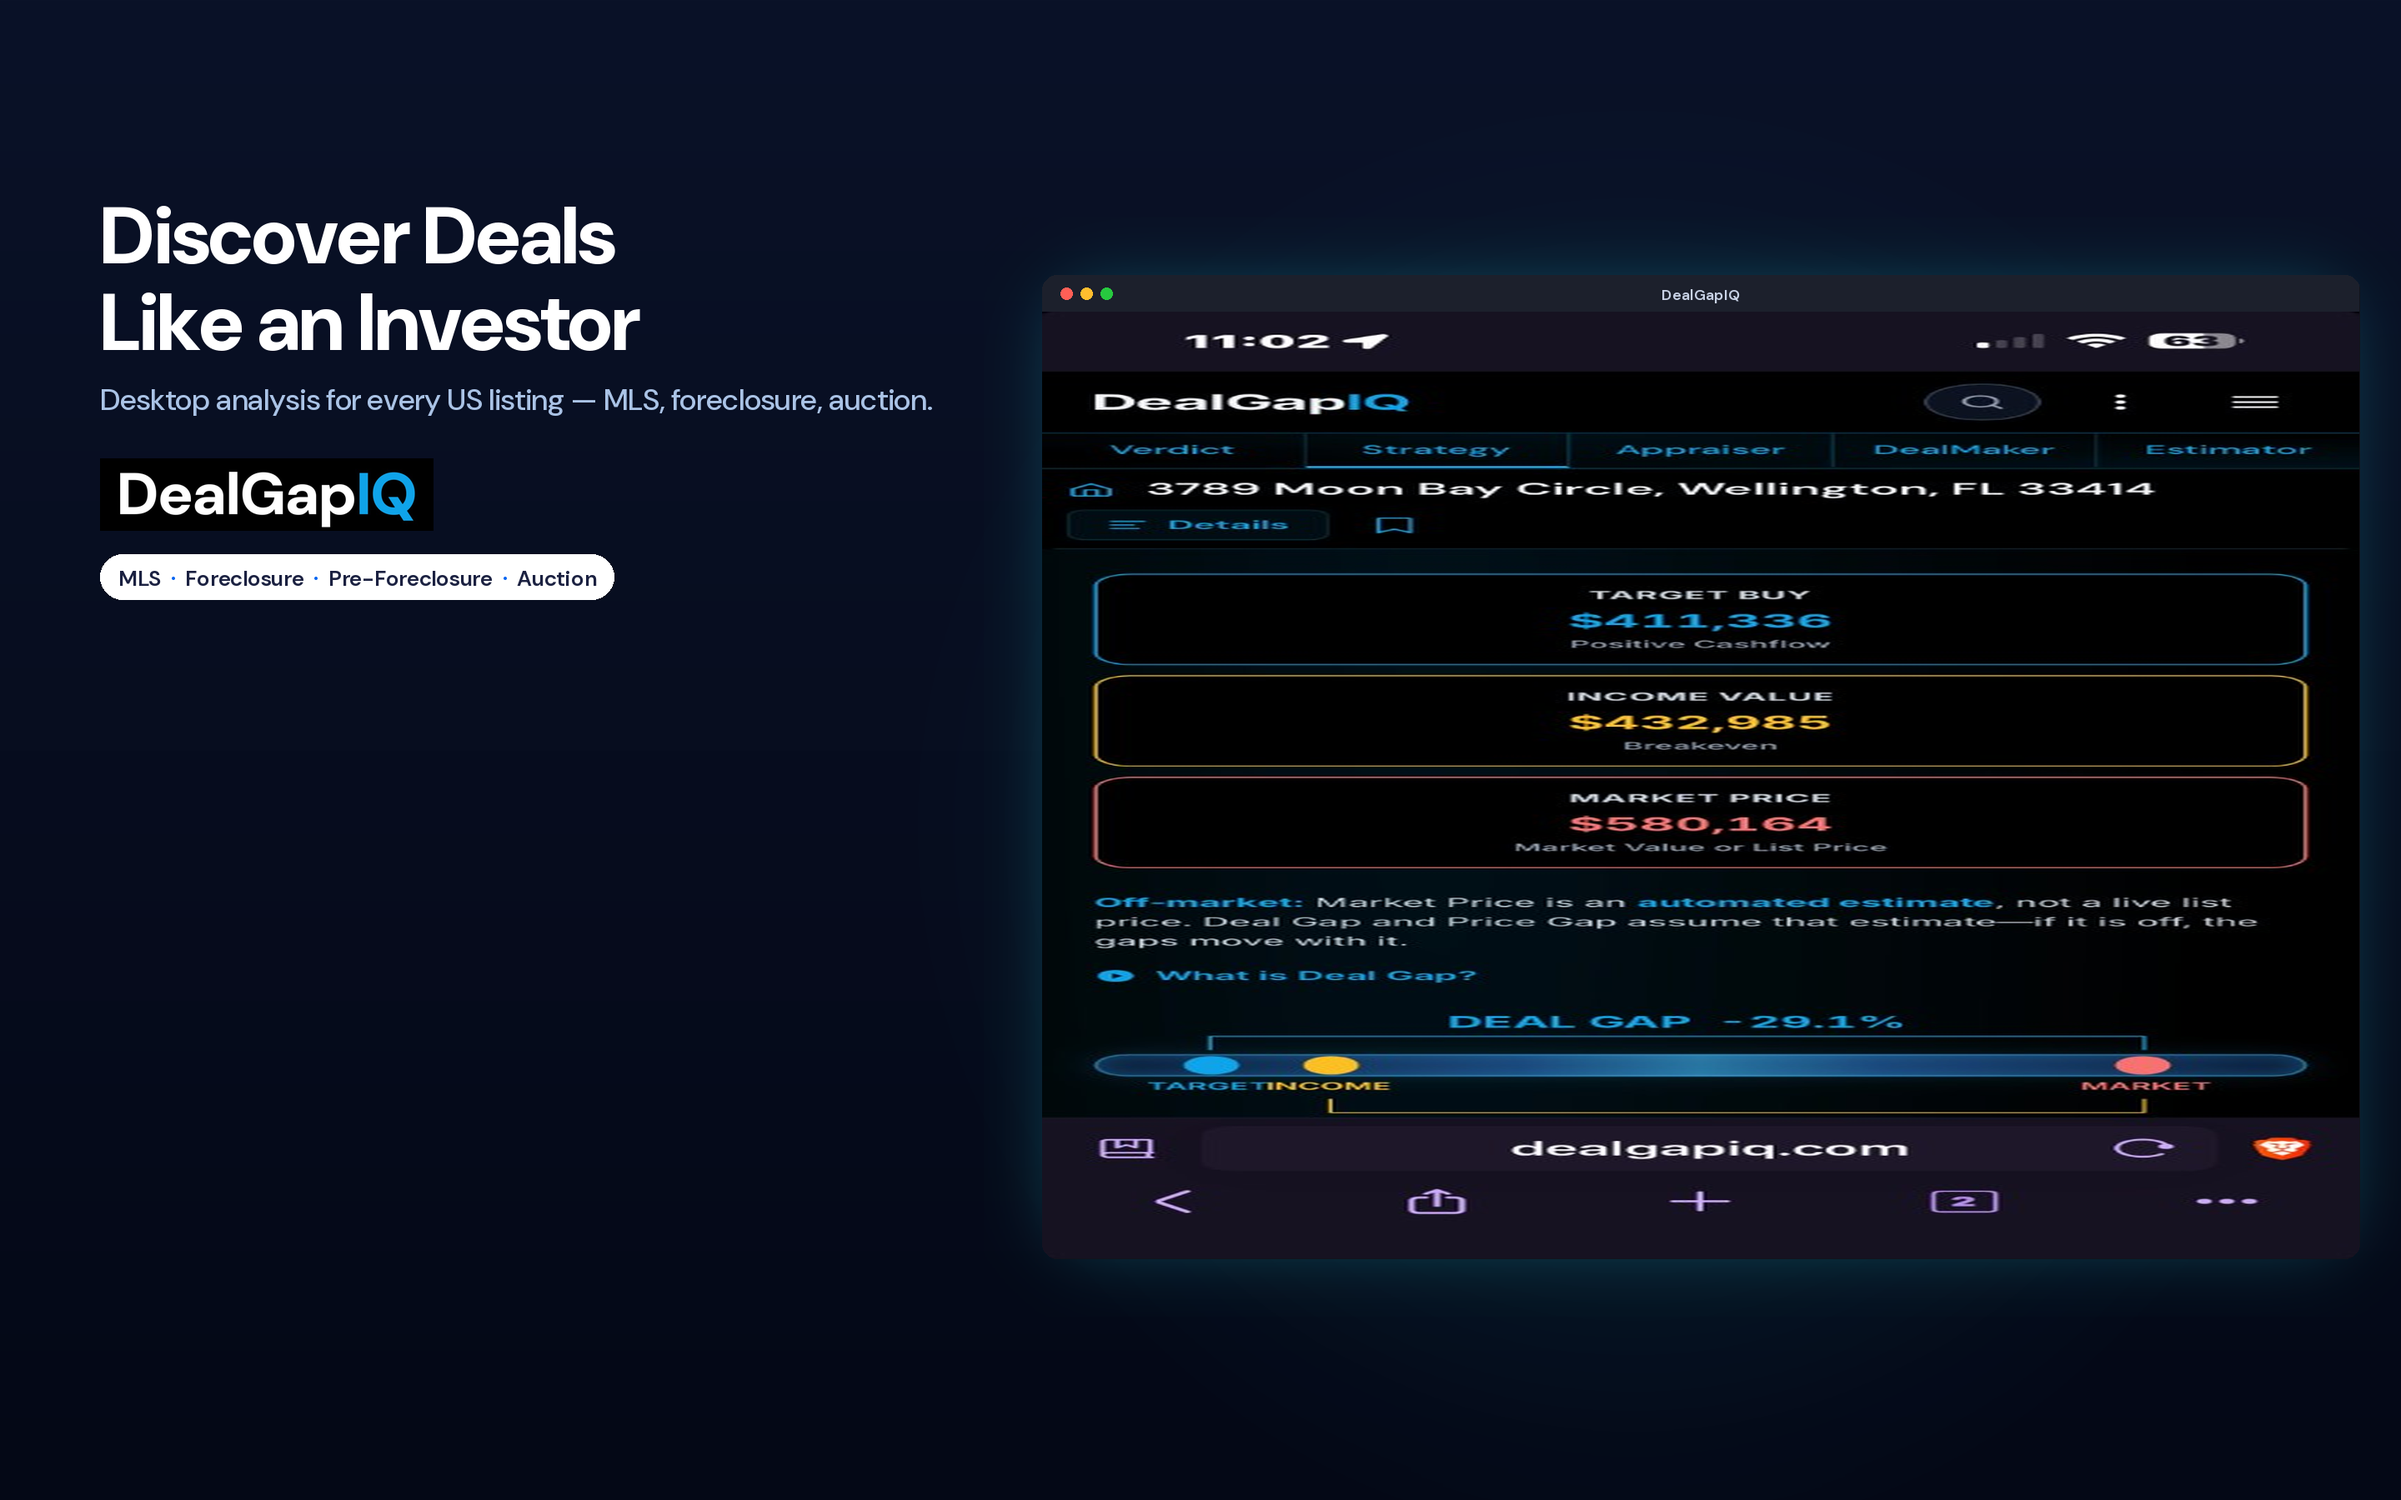
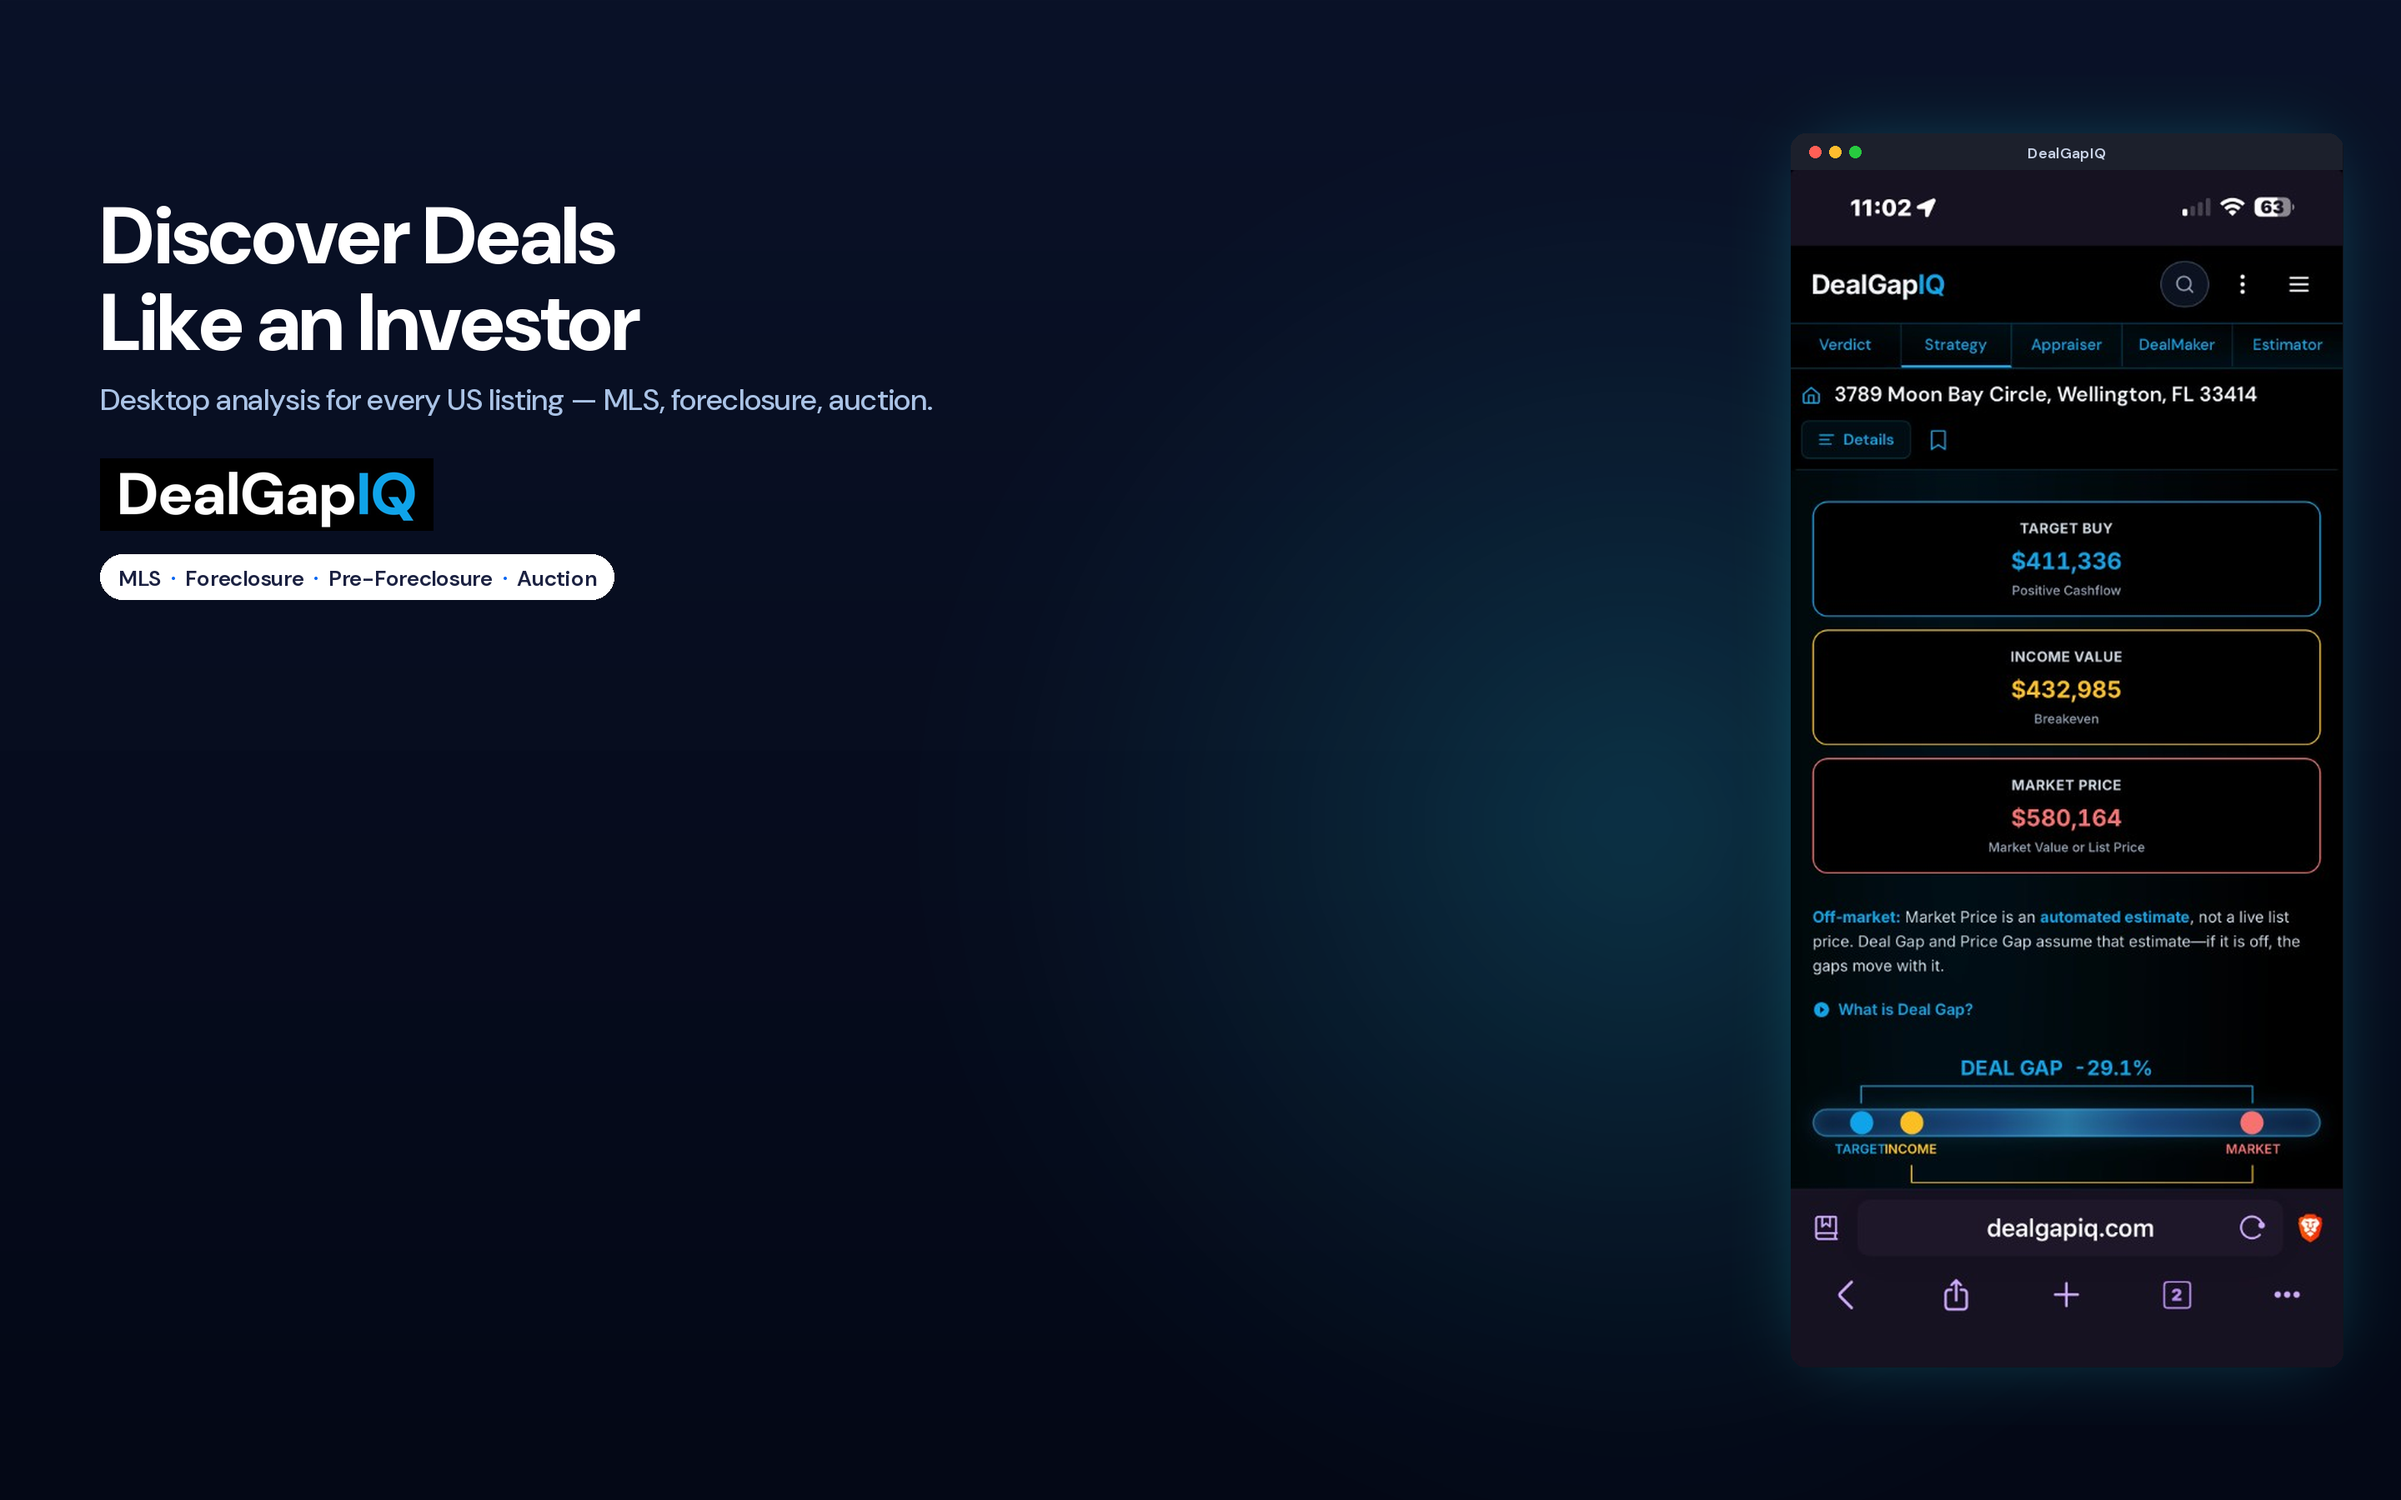
Fix Mac App Store screenshot stretch
Size the Mac window chrome to the source aspect and fit content with
letterboxing instead of force-resizing portrait plates into a landscape pane.

diff --git a/frontend/public/app-store/connect/apply_mac_screenshot_brand.py b/frontend/public/app-store/connect/apply_mac_screenshot_brand.py
@@ -236,9 +236,54 @@ def add_off_mls_badge(canvas: Image.Image, target_y: int) -> None:
             x += text_width(sep, font, tracking_em=-0.01)
 
 
-def build_mac_window(content: Image.Image, window_w: int, window_h: int) -> Image.Image:
+def fit_content_preserve_aspect(
+    content: Image.Image,
+    box_w: int,
+    box_h: int,
+    fill: tuple[int, int, int] = NAVY_TOP,
+) -> Image.Image:
+    """Scale content to fit inside box_w×box_h without stretching (letterbox)."""
+    src = content.convert("RGB")
+    sw, sh = src.size
+    if sw <= 0 or sh <= 0:
+        raise ValueError("content has empty dimensions")
+    scale = min(box_w / sw, box_h / sh)
+    nw = max(1, int(round(sw * scale)))
+    nh = max(1, int(round(sh * scale)))
+    fitted = src.resize((nw, nh), Image.LANCZOS)
+    canvas = Image.new("RGB", (box_w, box_h), fill)
+    canvas.paste(fitted, ((box_w - nw) // 2, (box_h - nh) // 2))
+    return canvas.convert("RGBA")
+
+
+def window_size_for_content(
+    content: Image.Image,
+    max_w: int = 1580,
+    max_h: int = 1320,
+    title_h: int = 44,
+) -> tuple[int, int, int, int]:
+    """Pick a Mac window whose content pane matches the source aspect ratio.
+
+    Returns (window_w, window_h, content_w, content_h). Never stretches.
+    """
+    sw, sh = content.size
+    # Leave room for the title bar inside max_h.
+    max_content_h = max_h - title_h
+    scale = min(max_w / sw, max_content_h / sh)
+    content_w = max(1, int(round(sw * scale)))
+    content_h = max(1, int(round(sh * scale)))
+    return content_w, content_h + title_h, content_w, content_h
+
+
+def build_mac_window(
+    content: Image.Image,
+    window_w: int,
+    window_h: int,
+    content_w: int,
+    content_h: int,
+) -> Image.Image:
     """Mac-style window with traffic lights and title bar around content."""
-    title_h = 44
+    title_h = window_h - content_h
     corner = 18
     pad = 70
     out_w = window_w + pad * 2
@@ -295,16 +340,11 @@ def build_mac_window(content: Image.Image, window_w: int, window_h: int) -> Imag
         (200, 210, 230, 255),
     )
 
-    # Content area
-    content_h = window_h - title_h
-    content_box = content.convert("RGBA").resize((window_w, content_h), Image.LANCZOS)
-    # Bottom corners rounded
-    mask = Image.new("L", (window_w, content_h), 255)
-    mdraw = ImageDraw.Draw(mask)
-    # punch top square (already under title), round bottom
-    corner_mask = Image.new("L", (window_w, content_h), 0)
+    # Content pane — exact aspect match (no stretch). fit_content is a safety net.
+    content_box = fit_content_preserve_aspect(content, content_w, content_h)
+    corner_mask = Image.new("L", (content_w, content_h), 0)
     ImageDraw.Draw(corner_mask).rounded_rectangle(
-        (0, -corner, window_w, content_h), radius=corner, fill=255
+        (0, -corner, content_w, content_h), radius=corner, fill=255
     )
     content_box.putalpha(corner_mask)
     out.alpha_composite(content_box, (pad, pad + title_h))
@@ -314,9 +354,7 @@ def build_mac_window(content: Image.Image, window_w: int, window_h: int) -> Imag
 def load_window_content(source: str) -> Image.Image:
     if source == "hero":
         if HERO_SCREENSHOT_PATH.is_file():
-            img = Image.open(HERO_SCREENSHOT_PATH).convert("RGB")
-            # Crop to a clean strategy panel; expand to landscape by letterboxing on navy
-            return img
+            return Image.open(HERO_SCREENSHOT_PATH).convert("RGB")
         source = "01-hero-investors-lens.png"
     path = IPHONE_DIR / source
     if not path.is_file():
@@ -335,13 +373,20 @@ def build_mac_screenshot(cfg: dict) -> None:
     add_off_mls_badge(canvas, target_y=wm_y + 28)
 
     content = load_window_content(cfg["source"])
-    # Window sits on the right; ~58% of canvas width
-    window_w = 1580
-    window_h = 1180
-    window = build_mac_window(content, window_w, window_h)
-    # Place window on right, vertically centered-ish
-    paste_x = TARGET_W - window.width + 20
-    paste_y = (TARGET_H - window.height) // 2 + 20
+    # Size the Mac chrome to the source aspect so plates never stretch.
+    # Left copy column needs ~1100px; keep the window inside the right half.
+    window_w, window_h, content_w, content_h = window_size_for_content(
+        content,
+        max_w=1500,
+        max_h=1480,
+    )
+    window = build_mac_window(content, window_w, window_h, content_w, content_h)
+    # Place window on the right, vertically centered; clamp so it stays on-canvas.
+    paste_x = min(TARGET_W - window.width + 10, TARGET_W - window.width)
+    paste_x = max(TARGET_W // 2 - 40, paste_x)
+    paste_y = max(40, (TARGET_H - window.height) // 2)
+    if paste_y + window.height > TARGET_H - 20:
+        paste_y = max(20, TARGET_H - window.height - 20)
     canvas.alpha_composite(window, (paste_x, paste_y))
 
     OUT_DIR.mkdir(parents=True, exist_ok=True)
